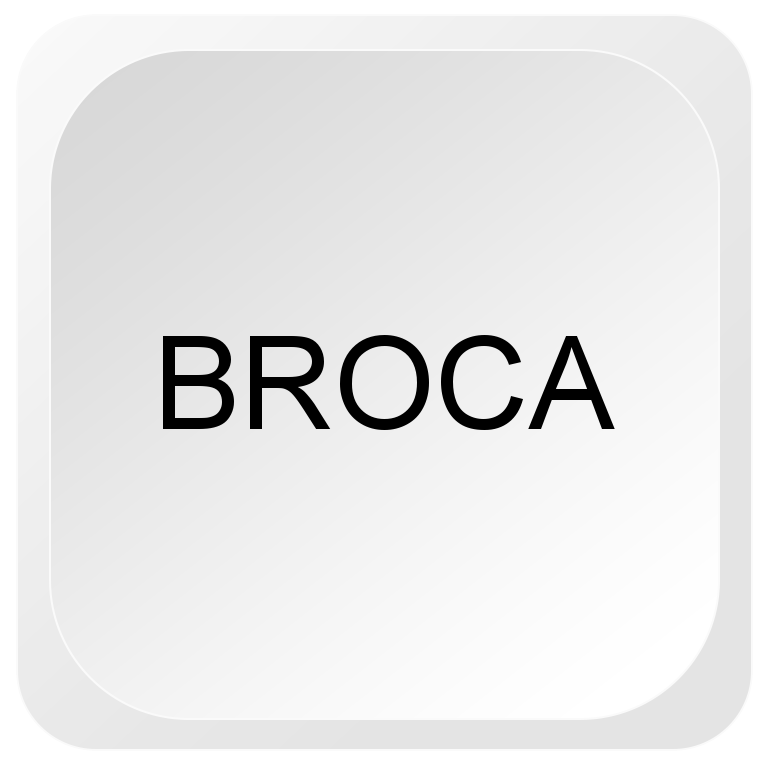
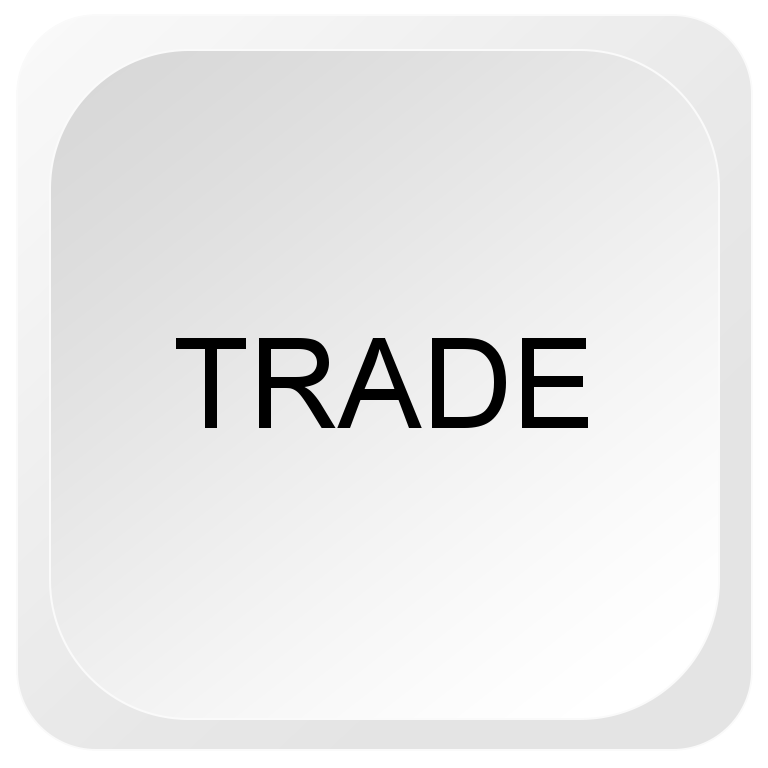
Fixes dice words translations
Word dices have been modified to set the correct translation to Galician and
Portuguese.

Changed region(s): [[0.1875, 0.4375, 0.8125, 0.5625]]

diff --git a/src/i18n/gl_ES.js b/src/i18n/gl_ES.js
@@ -49,16 +49,16 @@ export const gl_ES = {
   'nuk': 'Nuk',
   'eggs': 'Ovos',
   'walnuts': 'Noces',
-  'drill': 'Taladro',
+  'drill': 'Trade',
   'pear': 'Pera',
   'thyme': 'Tomiño',
-  'nuts': 'Torcas',
+  'nuts': 'Porcas',
   'apple': 'Mazá',
   'saw': 'Serra',
   'ham': 'Xamón',
   'hammer': 'Martelo',
   'melon': 'Melón',
-  'lemon': 'Lemón',
+  'lemon': 'Limón',
   'tool roller': 'Rodete',
   'tool wheel barrow': 'Carretilla',
   'tool broom': 'Vasoira',

diff --git a/src/i18n/pt_PT.js b/src/i18n/pt_PT.js
@@ -49,7 +49,7 @@ export const pt_PT = {
   'nuk': 'Nuk',
   'eggs': 'Ovos',
   'walnuts': 'Nozes',
-  'drill': 'Broca',
+  'drill': 'Berbequin',
   'pear': 'Pêra',
   'thyme': 'Tomilho',
   'nuts': 'Porcas',
